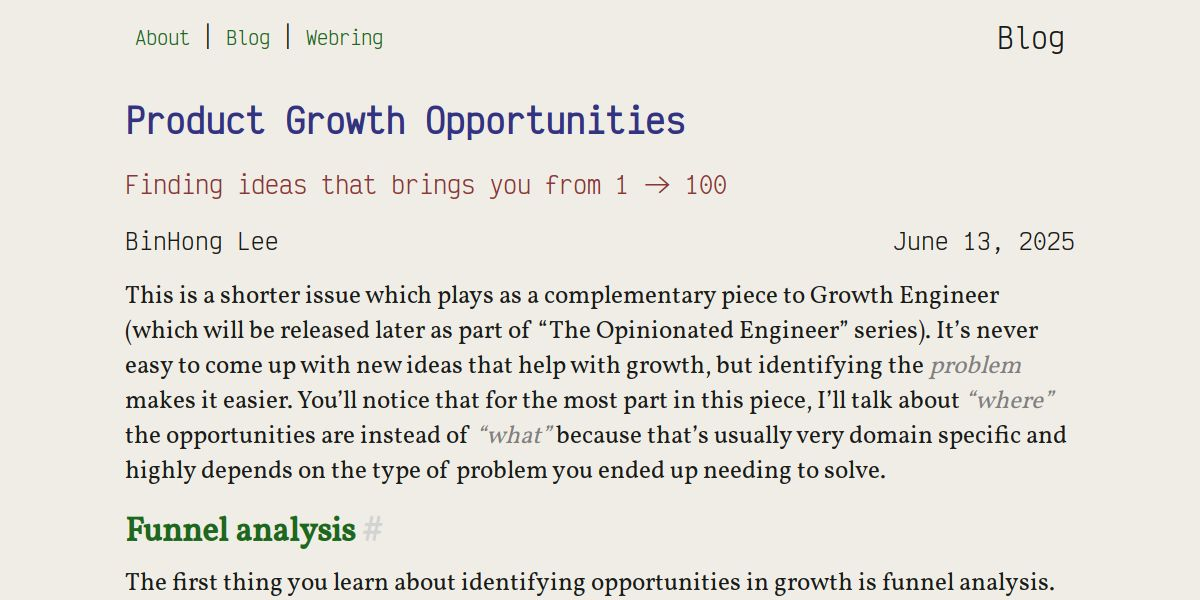
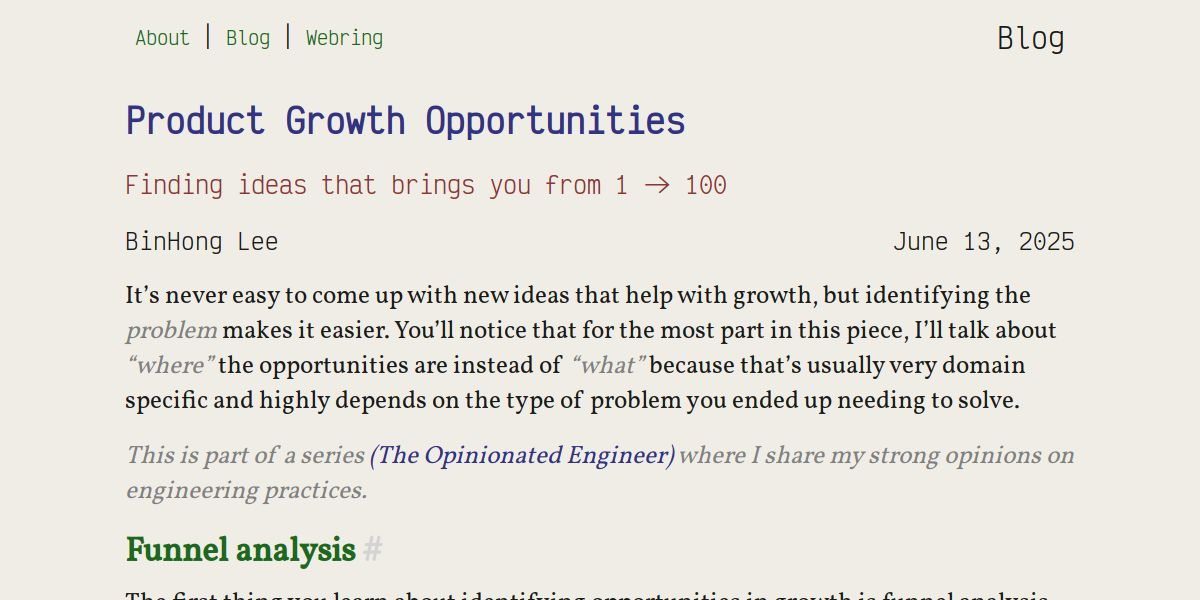
deploy: 841da1fc1ddc567139139091491802fc6e4baf66

Changed region(s): [[0.0925, 0.48, 0.8942, 1.0]]

diff --git a/2025-06-06-a-b-testing/index.html b/2025-06-06-a-b-testing/index.html
@@ -6,14 +6,8 @@
     
     <title>A/B Testing - BinHong Lee&#39;s Blog</title>
     
-    <meta name="description" content="This is a basic introduction on how to run a good A/B test as a complementary piece to &ldquo;Growth Engineer&rdquo; (which will be released later as part of &ldquo;The Opinionated Engineer&rdquo; series) because I realized I needed to first explain how A/B testing works before getting into more &ldquo;advanced&rdquo; concepts. For any metric / data driven team, A/B testing serves as a critical tool in measuring success.
-
-    
-        Tooling
-        #
-    
-
-If your employer does not already have a working tool for experimentation, I&rsquo;d recommend adopting one of the existing tools / platforms (like Statsig, GrowthBook, LaunchDarkly etc.) specifically built with this in mind. On a basic level, they should provide a toggle that splits users into 2 (or more) groups for testing purposes. Their downstream metrics will then be logged (after first exposure) to measure if / how these changes might have affected the users. While it&rsquo;s possible to build your own A/B testing tool in-house, the build and maintenance cost is likely not worth it compared to just adopting ready-made ones.">
+    <meta name="description" content="This is a basic introduction on how to run a good A/B test. A/B testing is a method where your user pool is segmented into multiple groups, allowing you to test different product interactions and understand how these changes affect user behavior. For any metric / data driven team, A/B testing serves as a critical tool in measuring success.
+This is part of a series (The Opinionated Engineer) where I share my strong opinions on engineering practices.">
     <meta property="og:type" content="article">
     <meta property="og:title" content="A/B Testing">
     <meta property="og:description" content="Basic guide to running a good A/B test">
@@ -87,7 +81,8 @@ If your employer does not already have a working tool for experimentation, I&rsq
             <p>BinHong Lee</p>
             <p class="right">June 6, 2025</p>
           </div>
-          <div class="post_content"><p>This is a basic introduction on how to run a good A/B test as a complementary piece to &ldquo;Growth Engineer&rdquo; (which will be released later as part of &ldquo;The Opinionated Engineer&rdquo; series) because I realized I needed to first explain how A/B testing works before getting into more <em>&ldquo;advanced&rdquo;</em> concepts. For any metric / data driven team, A/B testing serves as a critical tool in measuring success.</p>
+          <div class="post_content"><p>This is a basic introduction on how to run a good A/B test. A/B testing is a method where your user pool is segmented into multiple groups, allowing you to test different product interactions and understand how these changes affect user behavior. For any metric / data driven team, A/B testing serves as a critical tool in measuring success.</p>
+<p><em>This is part of a series <a href="/blog/2025-05-04-the-opinionated-engineer/">(The Opinionated Engineer)</a> where I share my strong opinions on engineering practices.</em></p>
 <a class="anchor" href="#tooling">
     <h2 id="tooling">
         <span class="text">Tooling</span>

diff --git a/2025-06-13-product-growth-opportunities/index.html b/2025-06-13-product-growth-opportunities/index.html
@@ -6,7 +6,8 @@
     
     <title>Product Growth Opportunities - BinHong Lee&#39;s Blog</title>
     
-    <meta name="description" content="This is a shorter issue which plays as a complementary piece to Growth Engineer (which will be released later as part of &ldquo;The Opinionated Engineer&rdquo; series). It&rsquo;s never easy to come up with new ideas that help with growth, but identifying the problem makes it easier. You&rsquo;ll notice that for the most part in this piece, I&rsquo;ll talk about &ldquo;where&rdquo; the opportunities are instead of &ldquo;what&rdquo; because that&rsquo;s usually very domain specific and highly depends on the type of problem you ended up needing to solve.">
+    <meta name="description" content="It&rsquo;s never easy to come up with new ideas that help with growth, but identifying the problem makes it easier. You&rsquo;ll notice that for the most part in this piece, I&rsquo;ll talk about &ldquo;where&rdquo; the opportunities are instead of &ldquo;what&rdquo; because that&rsquo;s usually very domain specific and highly depends on the type of problem you ended up needing to solve.
+This is part of a series (The Opinionated Engineer) where I share my strong opinions on engineering practices.">
     <meta property="og:type" content="article">
     <meta property="og:title" content="Product Growth Opportunities">
     <meta property="og:description" content="Finding ideas that brings you from 1 -&gt; 100">
@@ -80,7 +81,8 @@
             <p>BinHong Lee</p>
             <p class="right">June 13, 2025</p>
           </div>
-          <div class="post_content"><p>This is a shorter issue which plays as a complementary piece to Growth Engineer (which will be released later as part of &ldquo;The Opinionated Engineer&rdquo; series). It&rsquo;s never easy to come up with new ideas that help with growth, but identifying the <em>problem</em> makes it easier. You&rsquo;ll notice that for the most part in this piece, I&rsquo;ll talk about <em>&ldquo;where&rdquo;</em> the opportunities are instead of <em>&ldquo;what&rdquo;</em> because that&rsquo;s usually very domain specific and highly depends on the type of problem you ended up needing to solve.</p>
+          <div class="post_content"><p>It&rsquo;s never easy to come up with new ideas that help with growth, but identifying the <em>problem</em> makes it easier. You&rsquo;ll notice that for the most part in this piece, I&rsquo;ll talk about <em>&ldquo;where&rdquo;</em> the opportunities are instead of <em>&ldquo;what&rdquo;</em> because that&rsquo;s usually very domain specific and highly depends on the type of problem you ended up needing to solve.</p>
+<p><em>This is part of a series <a href="/blog/2025-05-04-the-opinionated-engineer/">(The Opinionated Engineer)</a> where I share my strong opinions on engineering practices.</em></p>
 <a class="anchor" href="#funnel-analysis">
     <h2 id="funnel-analysis">
         <span class="text">Funnel analysis</span>

diff --git a/2025-06-20-growth-engineer/index.html b/2025-06-20-growth-engineer/index.html
@@ -89,7 +89,7 @@
     </h2>
 </a>
 <p>When I say <em>everything</em>, I mean <strong>everything</strong>. Every button change, content change, margin change, slap an experiment on it. You need to be numbers obsessed and understand how anything moves the topline metric (the metric you / your team cares the most about). In that same sense, you might want to run experiments in chunks of small changes instead of a big chunk to better understand how each small change affects the user behavior. This would later help you in better understanding what is a good growth lever vs what isn&rsquo;t. Alternatively (depending on the type of changes), you can also have multiple variants with different mixes to achieve something similar.</p>
-<p><em>For more on A/B testing, check out <a href="">this other post I wrote a few weeks ago here (TBD)</a>.</em></p>
+<p><em>For more on A/B testing, check out <a href="/blog/2025-06-06-a-b-testing/">this other post I wrote a few weeks ago here</a>.</em></p>
 <a class="anchor" href="#understanding-scale">
     <h2 id="understanding-scale">
         <span class="text">Understanding Scale</span>
@@ -103,7 +103,7 @@
         <span class="tag">#</span>
     </h2>
 </a>
-<p>I wrote <a href="/blog/2025-06-06-product-growth-opportunities/">a separate complementary piece on this a few weeks ago here</a> mainly because it ended up being so long that it probably deserves to be its own separate thing. This will be a core part of your job and in my opinion the biggest separation factor for a <em>&ldquo;pure bred&rdquo;</em> (lol) growth engineer. Many engineers get stuck or move away from growth over time (especially around IC5 -&gt; IC6 level) as they realize that they can no longer come up with new ideas and directions to continue growing the product sustainably.</p>
+<p>I wrote <a href="/blog/2025-06-13-product-growth-opportunities/">a separate complementary piece on this a few weeks ago here</a> mainly because it ended up being so long that it probably deserves to be its own separate thing. This will be a core part of your job and in my opinion the biggest separation factor for a <em>&ldquo;pure bred&rdquo;</em> (lol) growth engineer. Many engineers get stuck or move away from growth over time (especially around IC5 -&gt; IC6 level) as they realize that they can no longer come up with new ideas and directions to continue growing the product sustainably.</p>
 <a class="anchor" href="#cost-analysis">
     <h2 id="cost-analysis">
         <span class="text">Cost analysis</span>

diff --git a/2025-05-04-the-opinionated-engineer/index.html b/2025-05-04-the-opinionated-engineer/index.html
@@ -100,7 +100,14 @@ I have not fully planned out the entire series but here are a few topics I have 
 <li><a href="/blog/2025-05-15-art-of-posting/">The Art of Posting</a></li>
 <li><a href="/blog/2025-05-23-code-review-culture/">Code Review Culture</a></li>
 <li><a href="/blog/2025-05-30-no-blame-sev-culture/">No Blame SEV Culture</a></li>
+<li>Growth
+<ol>
+<li>A/B Testing</li>
+<li>Product Growth Opportunities</li>
 <li>Growth Engineer</li>
+<li>Growth Experiment Review Process</li>
+</ol>
+</li>
 <li>Understanding the Value of Dev Tools</li>
 <li>Firefighting Heroes</li>
 <li>The Intangibles</li>
